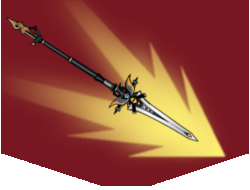
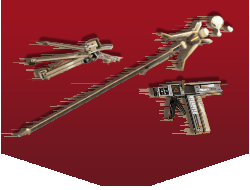
图片资源更新

diff --git a/src/main/java/rhinemod/patches/VictoryScenePatch.java b/src/main/java/rhinemod/patches/VictoryScenePatch.java
@@ -7,7 +7,9 @@ import com.evacipated.cardcrawl.modthespire.lib.SpirePostfixPatch;
 import com.megacrit.cardcrawl.characters.AbstractPlayer;
 import com.megacrit.cardcrawl.cutscenes.Cutscene;
 import com.megacrit.cardcrawl.cutscenes.CutscenePanel;
+import com.megacrit.cardcrawl.dungeons.AbstractDungeon;
 import com.megacrit.cardcrawl.helpers.ImageMaster;
+import rhinemod.relics.LoneTrail;
 
 import java.util.ArrayList;
 
@@ -16,9 +18,13 @@ public class VictoryScenePatch {
     @SpirePostfixPatch
     public static void Postfix(Cutscene _inst, AbstractPlayer.PlayerClass chosenClass, @ByRef Texture[] ___bgImg, ArrayList<CutscenePanel> ___panels) {
         if (chosenClass == RhineEnum.RHINE_CLASS) {
-            ___bgImg[0] = ImageMaster.loadImage("resources/rhinemod/images/ui/SkyScene/scene.png");
+            String url = "resources/rhinemod/images/ui/VictorySceneHeart.png";
+            if (AbstractDungeon.player.hasRelic(LoneTrail.ID)) {
+                url = "resources/rhinemod/images/ui/VictoryScene.png";
+            }
+            ___bgImg[0] = ImageMaster.loadImage(url);
             ___panels.clear();
-            ___panels.add(new CutscenePanel("resources/rhinemod/images/ui/VictoryScene.png"));
+            ___panels.add(new CutscenePanel(url));
         }
     }
 }

diff --git a/src/main/java/rhinemod/cards/MultiEcho.java b/src/main/java/rhinemod/cards/MultiEcho.java
@@ -1,16 +1,10 @@
 package rhinemod.cards;
 
-import com.megacrit.cardcrawl.actions.AbstractGameAction;
-import com.megacrit.cardcrawl.actions.common.DamageAction;
-import com.megacrit.cardcrawl.actions.common.DiscardAction;
-import com.megacrit.cardcrawl.cards.DamageInfo;
 import com.megacrit.cardcrawl.characters.AbstractPlayer;
 import com.megacrit.cardcrawl.core.CardCrawlGame;
 import com.megacrit.cardcrawl.localization.CardStrings;
 import com.megacrit.cardcrawl.monsters.AbstractMonster;
-import rhinemod.actions.AddFlowingShapeAction;
 import rhinemod.actions.MultiEchoAction;
-import rhinemod.characters.RhineLab;
 import rhinemod.interfaces.UpgradeBranch;
 import rhinemod.patches.AbstractCardEnum;
 
@@ -23,7 +17,7 @@ public class MultiEcho extends AbstractRhineCard {
     public static final String NAME = cardStrings.NAME;
     public static final String DESCRIPTION = cardStrings.DESCRIPTION;
     public static final String UPGRADE_DESCRIPTION = cardStrings.UPGRADE_DESCRIPTION;
-    public static final String IMG = "resources/rhinemod/images/cards/BionicDevice.png";
+    public static final String IMG = "resources/rhinemod/images/cards/MultiEcho.png";
     public static final int COST = 1;
     public static final int UPGRADE_COST = 0;
     public MultiEcho() {

diff --git a/src/main/java/rhinemod/cards/TwoToOne.java b/src/main/java/rhinemod/cards/TwoToOne.java
@@ -22,7 +22,8 @@ public class TwoToOne extends AbstractRhineCard {
     public static final String NAME = cardStrings.NAME;
     public static final String DESCRIPTION = cardStrings.DESCRIPTION;
     public static final String[] EXTENDED_DESCRIPTION = cardStrings.EXTENDED_DESCRIPTION;
-    public static final String IMG = "resources/rhinemod/images/cards/PureWaterIsLife.png";
+    public static final String IMG = "resources/rhinemod/images/cards/TwoToOne.png";
+    public static final String IMG_K = "resources/rhinemod/images/cards/OneToTwo.png";
     public static final int COST = 1;
     public static final int ATTACK_DMG = 11;
     public static final int UPGRADE_PLUS_DMG = 5;
@@ -69,6 +70,8 @@ public class TwoToOne extends AbstractRhineCard {
                     upgradeName(2, EXTENDED_DESCRIPTION[0]);
                     rawDescription = EXTENDED_DESCRIPTION[1];
                     upgradeDamage(UPGRADE_PLUS_DMG);
+                    textureImg = IMG_K;
+                    loadCardImage(textureImg);
                     initializeDescription();
                 }
             });

diff --git a/src/main/java/rhinemod/cards/ApplyFullForce.java b/src/main/java/rhinemod/cards/ApplyFullForce.java
@@ -19,7 +19,7 @@ public class ApplyFullForce extends AbstractRhineCard {
     public static final CardStrings cardStrings = CardCrawlGame.languagePack.getCardStrings(ID);
     public static final String NAME = cardStrings.NAME;
     public static final String DESCRIPTION = cardStrings.DESCRIPTION;
-    public static final String IMG = "resources/rhinemod/images/cards/PureWaterIsLife.png";
+    public static final String IMG = "resources/rhinemod/images/cards/ApplyFullForce.png";
     public static final int COST = 1;
     public static final int ATTACK_DMG = 7;
     public static final int ATTACK_STUN_DMG = 14;

diff --git a/src/main/java/rhinemod/cards/IdealistForm.java b/src/main/java/rhinemod/cards/IdealistForm.java
@@ -21,7 +21,7 @@ public class IdealistForm extends AbstractRhineCard {
     public static final String NAME = cardStrings.NAME;
     public static final String DESCRIPTION = cardStrings.DESCRIPTION;
     public static final String[] EXTENDED_DESCRIPTION = cardStrings.EXTENDED_DESCRIPTION;
-    public static final String IMG = "resources/rhinemod/images/cards/RhineStrike.png";
+    public static final String IMG = "resources/rhinemod/images/cards/IdealistForm.png";
     public static final int COST = 3;
     public static final int ATTACK_DMG = 60;
     public static final int UPGRADE_PLUS_DMG = 15;

diff --git a/src/main/java/rhinemod/cards/LikeMind.java b/src/main/java/rhinemod/cards/LikeMind.java
@@ -18,7 +18,7 @@ public class LikeMind extends AbstractRhineCard {
     public static final String NAME = cardStrings.NAME;
     public static final String DESCRIPTION = cardStrings.DESCRIPTION;
     public static final String[] EXTENDED_DESCRIPTION = cardStrings.EXTENDED_DESCRIPTION;
-    public static final String IMG = "resources/rhinemod/images/cards/RhineDefend.png";
+    public static final String IMG = "resources/rhinemod/images/cards/LikeMind.png";
     public static final int COST = 2;
     public static final int BASIC_NUM = 2;
     public static final int UPGRADE_PLUS_NONE = 1;

diff --git a/src/main/java/rhinemod/cards/Refreshment.java b/src/main/java/rhinemod/cards/Refreshment.java
@@ -18,7 +18,7 @@ public class Refreshment extends AbstractRhineCard {
     public static final String NAME = cardStrings.NAME;
     public static final String DESCRIPTION = cardStrings.DESCRIPTION;
     public static final String UPGRADE_DESCRIPTION = cardStrings.UPGRADE_DESCRIPTION;
-    public static final String IMG = "resources/rhinemod/images/cards/Solidify.png";
+    public static final String IMG = "resources/rhinemod/images/cards/Refreshment.png";
     public static final int COST = 2;
     public static final int LIMIT = 4;
     public static final int UPGRADE_EXTRA_LIMIT = 2;

diff --git a/src/main/java/rhinemod/events/MysteriousInvent.java b/src/main/java/rhinemod/events/MysteriousInvent.java
@@ -21,7 +21,7 @@ public class MysteriousInvent extends AbstractImageEvent {
     }
     int gold;
     public MysteriousInvent() {
-        super(NAME, DESCRIPTIONS[0], "resources/rhinemod/images/crads/BionicDevice.png");
+        super(NAME, DESCRIPTIONS[0], "resources/rhinemod/images/event/MysteriousInvent.png");
         if (AbstractDungeon.ascensionLevel < 15) {
             gold = 150;
         } else {
